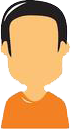
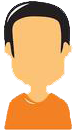
dodao guest-about.html i guest-statistics.html
Ispravljeno:
Linkovi koji su lose radili. logo ivice, gender ikonica velicina.
Ostalo:
 Login stranica, pozadina na srpskom
 Tema google maps-a

diff --git a/Frontend/guest-statistics.html b/Frontend/guest-statistics.html
@@ -4,7 +4,7 @@
 	<head>
 		<link rel="stylesheet" href="https://maxcdn.bootstrapcdn.com/bootstrap/4.0.0/css/bootstrap.min.css">
 		<link rel="icon" href="./img/logo.png">
-		<title>Home</title>
+		<title>View statistics</title>
 
 
 		<!-- Custom stlylesheet -->
@@ -29,11 +29,11 @@
 			<!-- likovi -->
 			<div class="collapse navbar-collapse" style="text-align:right" id="collapsibleNavbar">
 				<ul class="navbar-nav mx-auto">
-					<li class="nav-item active">
+					<li class="nav-item">
 						<a class="nav-link" href="guest-home.html">Home</a>
 					</li>
 					<li class="nav-item">
-						<a class="nav-link" href="guest-statistics.html">View statistics</a>
+						<a class="nav-link  active" href="guest-statistics.html">View statistics</a>
 					</li>
 					<li class="nav-item">
 						<a class="nav-link" href="login.html">Sign up</a>
@@ -57,69 +57,42 @@
 
 		<div class="container-fluid">
 			<div class="row">
-				<div class="col-sm-8">					
-					<div id="map" class="card" style="height:700px;">
-							<div id="map"></div>
-					</div>
 
-					<script src="js/map_styles.js"></script>
-					<script src="https://maps.googleapis.com/maps/api/js?key=AIzaSyCGhsVpjnpP_alimoKSREfuSE8tJRA1v3U&callback=myMap"></script>
-				</div>
+					<div class="col-md-12">
 
-					<div class="col-md-4">
-
-						<div class="jumbotron" style="height:500px; padding:10px;padding-left:20px;padding-right:20px;background-size:cover; background-image: url('./img/brown-gradient.png');">
-							<div class="search" style="margin-bottom:20px">
-								<form class="search-form">
-									<input type="text" placeholder="Trazi destinacije,ljude itd..">
-									<input type="submit" value="Search">
-								</form>
+						<div class="jumbotron" style="height:700px;background-size:cover; background-image: url('./img/brown-gradient.png');">					
+							<div class="media">
+								<img src="./img/statistics-icon.png" width="120px" style="margin-right:20px">
+								<br>
+								<div class="media-body">
+									 <h2 class="mt-2"><strong>GeoTag weekly page statistics</strong></h2>
+										<hr>
+										<h6>New users:								 <span id="new_users_stat">1</span> </h6> 
+										<h6>Number of reviews:						 <span id="num_reviews_stat">1</span> </h6>
+										<h6>Number of positive reviews in last week: <span id="num_pos_reviews_stat">1</span> </h6>	
+										<h6>Added places:							 <span id="num_added_places_stat">1</span> </h6>	
+								</div>
 							</div>
-							<h5>Latest comments:</h5>
-							<div id="random_comments">
-									<div class="card" style="margin-top:20px">
-										<div class="card-header">
-											<table width="100%">
-												<tr>
-													<td width="80%"><strong>Hudi, Zakintos </strong></td>
-													<td width="10%"><a onclick="" href="#"><img src="./img/plus-vote.png" width="20px"></a>&nbsp;10
-													<td width="10%"><a onclick="" href="#"><img src="./img/minus-vote.png" width="20px"></a>&nbsp;10
-												</tr>
-											</table>
-										</div>
-										<div class="card-body">
-											<i>Neki tekst</i>
-										</div>
-									</div>
-									<div class="card" style="margin-top:20px">
-										<div class="card-header">
-											<table width="100%">
-												<tr>
-													<td width="80%"><strong>Hudi, Zakintos </strong></td>
-													<td width="10%"><a onclick="" href="#"><img src="./img/plus-vote.png" width="20px"></a>&nbsp;10
-													<td width="10%"><a onclick="" href="#"><img src="./img/minus-vote.png" width="20px"></a>&nbsp;10
-												</tr>
-											</table>
-										</div>
-										<div class="card-body">
-											<i>Neki tekst</i>
+
+
+							<br>
+
+								<div class="alert alert-dark" style="margin-top:70px">
+									<div class="media">
+										<img src="./img/achievement-icon.png" width="50px" style="margin-right:20px">
+										<br>
+										<div class="media-body">
+											 <h4 class="mt-2 mb-3">Achievements</h4>
+											<p>Achievement 1
+											<p>Achievement 2
+											<p>Achievement 3
 										</div>
 									</div>
-								</div>
+
+							</div>
 						</div>
-						<div class="alert alert-info" style="height:150px;">
-								<h5>Biraj stil mape:[Test deo]</h5>
-								<hr>
-								<div class="radio">
-									<form name="map_style_form" id="map_style_form">
-										<input type="radio" name="r" value="desert" checked onClick="refresh()">Pustinja
-										<input type="radio" name="r" value="night" onClick="refresh()">Noc
-									</form>
-								</div>
-						</div>
-						
 					</div>
-				</div>
+			</div>
 
 
 				<hr>
@@ -137,7 +110,7 @@
 						</table>
 						<br>
 				</footer>
-				</div>
+		</div>
 			
 
 	

diff --git a/Frontend/guest-about.html b/Frontend/guest-about.html
@@ -1,0 +1,113 @@
+
+<!DOCTYPE html>
+<html lang="en">
+	<head>
+		<link rel="stylesheet" href="https://maxcdn.bootstrapcdn.com/bootstrap/4.0.0/css/bootstrap.min.css">
+		<link rel="icon" href="./img/logo.png">
+		<title>About</title>
+
+
+		<!-- Custom stlylesheet -->
+		<link type="text/css" rel="stylesheet" href="css/mystyle.css" />
+		<script src="js/myjs.js"></script>
+	</head>
+	
+	<body >
+		
+		<nav class="stroke navbar navbar-expand-md navbar-dark" style="background-image: url('./img/header.jpg'); margin:10px;margin-bottom:30px; border-radius: 3px">
+
+	
+			<!-- kada se smanji prozor da se pojavi collapse button -->
+			<button class="navbar-toggler" type="button" data-toggle="collapse" data-target="#collapsibleNavbar">
+				<span class="navbar-toggler-icon"></span>
+			</button>
+			
+			<!-- likovi -->
+			<div class="collapse navbar-collapse" style="text-align:right" id="collapsibleNavbar">
+				<ul class="navbar-nav mx-auto">
+					<li class="nav-item">
+						<a class="nav-link" href="guest-home.html">Home</a>
+					</li>
+					<li class="nav-item">
+						<a class="nav-link" href="guest-statistics.html">View statistics</a>
+					</li>
+					<li class="nav-item">
+						<a class="nav-link" href="login.html">Sign up</a>
+					</li> 
+					<li class="nav-item">
+						<a class="nav-link  active" href="guest-about.html">About</a>
+					</li> 
+					<li class="nav-item">
+						<a class="nav-link" href="guest-help.html">Help</a>
+					</li> 
+				</ul>
+
+				<a href="home.html"><span id="username_korisnika" style="color:white">no_name</span></a>
+				&nbsp;
+				<span id="tip_korisnika" class="badge badge-warning">Guest</span>
+
+				<img id="slika_korisnika" src="./img/avatar.png" style="width:50px; margin-left:20px;margin-right:10px">
+				<input type="button" class="btn btn-dark" value="logout" onClick="">
+			</div> 
+		</nav>
+
+		<div class="container-fluid">
+			<div class="row">
+
+					<div class="col-md-12">
+
+						<div class="jumbotron" style="height:700px; padding:10px;padding-left:20px;padding-right:20px;background-size:cover; background-image: url('./img/brown-gradient.png');">
+						<br>
+						<div class="media" style="margin:10px">
+							<img src="./img/logo.png" width="150px">
+							<div class="media-body">
+								<div class="card" style="margin:10px;padding:40px; border-width: 4px">
+								<h5><strong>GeoTag</strong> is cool webpage...</h5>
+								<p>Lorem ipsum dolor sit amet, consectetur adipiscing elit, sed do eiusmod tempor incididunt ut labore et dolore magna aliqua. Ut enim ad minim veniam, quis nostrud exercitation ullamco laboris nisi ut aliquip ex ea commodo consequat. Duis aute irure dolor in reprehenderit in voluptate velit esse cillum dolore eu fugiat nulla pariatur. Excepteur sint occaecat cupidatat non proident, sunt in culpa qui officia deserunt mollit anim id est laborum.</p>									
+								</div>
+							</div>
+						</div>
+						<br><br>
+						<div class="media" style="margin:10px;">
+							<img src="./img/DP-team.png" width="150px">
+							<div class="media-body">
+								<div class="card" style="margin:10px;padding:40px; border-width: 4px">
+								<h5><strong>DiningPhilosophers</strong> is cool team...</h5>
+								<p>Lorem ipsum dolor sit amet, consectetur adipiscing elit, sed do eiusmod tempor incididunt ut labore et dolore magna aliqua. Ut enim ad minim veniam, quis nostrud exercitation ullamco laboris nisi ut aliquip ex ea commodo consequat. Duis aute irure dolor in reprehenderit in voluptate velit esse cillum dolore eu fugiat nulla pariatur. Excepteur sint occaecat cupidatat non proident, sunt in culpa qui officia deserunt mollit anim id est laborum.</p>									
+								</div>
+							</div>
+						</div>
+						</div>
+					</div>
+			</div>
+
+
+				<hr>
+				<footer>
+						<table width="100%">
+								<tr>
+									<td align="left">
+										<i>Software engineering, Faculty of Electrical engineering, University of Belgrade</i>
+									</td>
+									<td align="right">
+										<i>&copy; Copyright 2018.</i>
+									</td>
+								</tr>
+
+						</table>
+						<br>
+				</footer>
+		</div>
+			
+
+	
+	<!-- jQuery library -->
+	<script src="https://ajax.googleapis.com/ajax/libs/jquery/3.3.1/jquery.min.js"></script>
+	
+	<!-- Popper JS -->
+	<script src="https://cdnjs.cloudflare.com/ajax/libs/popper.js/1.12.9/umd/popper.min.js"></script>
+	
+	<!-- Latest compiled JavaScript -->
+	<script src="https://maxcdn.bootstrapcdn.com/bootstrap/4.0.0/js/bootstrap.min.js"></script>
+</body>
+</html>

diff --git a/Frontend/login.html b/Frontend/login.html
@@ -3,8 +3,8 @@
 <html lang="en">
 	<head>
 		<link rel="stylesheet" href="https://maxcdn.bootstrapcdn.com/bootstrap/4.0.0/css/bootstrap.min.css">
-
-
+		<link rel="icon" href="./img/logo.png">
+		<title>GeoTag</title>
 
 		<!-- Custom stlylesheet -->
 		<link type="text/css" rel="stylesheet" href="css/mystyle.css" />
